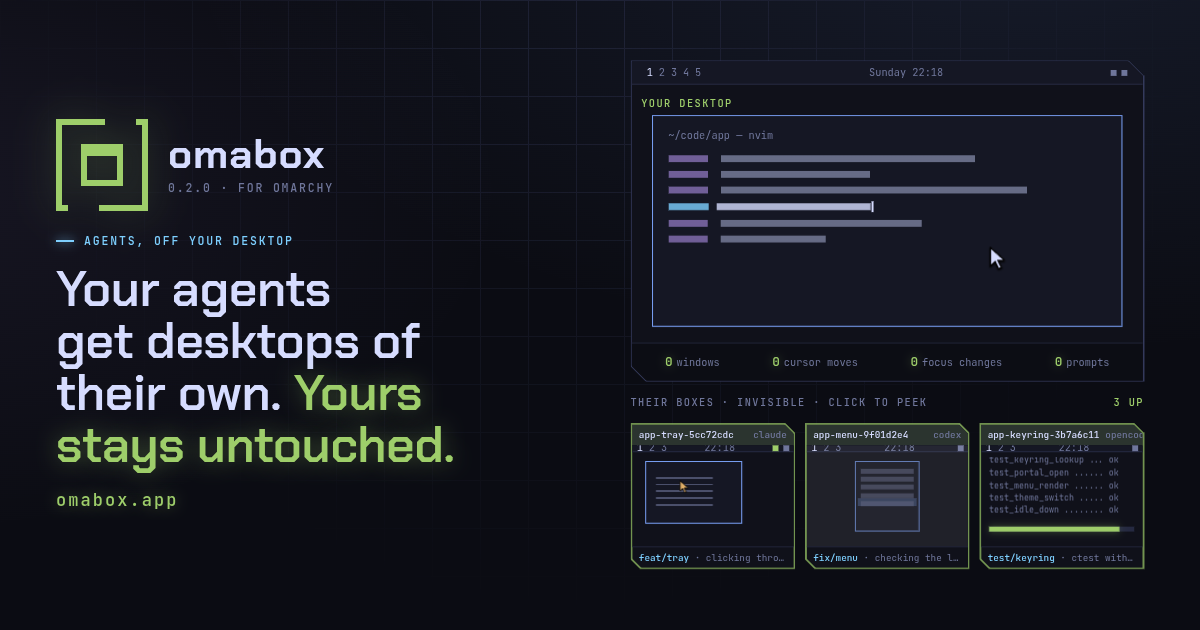
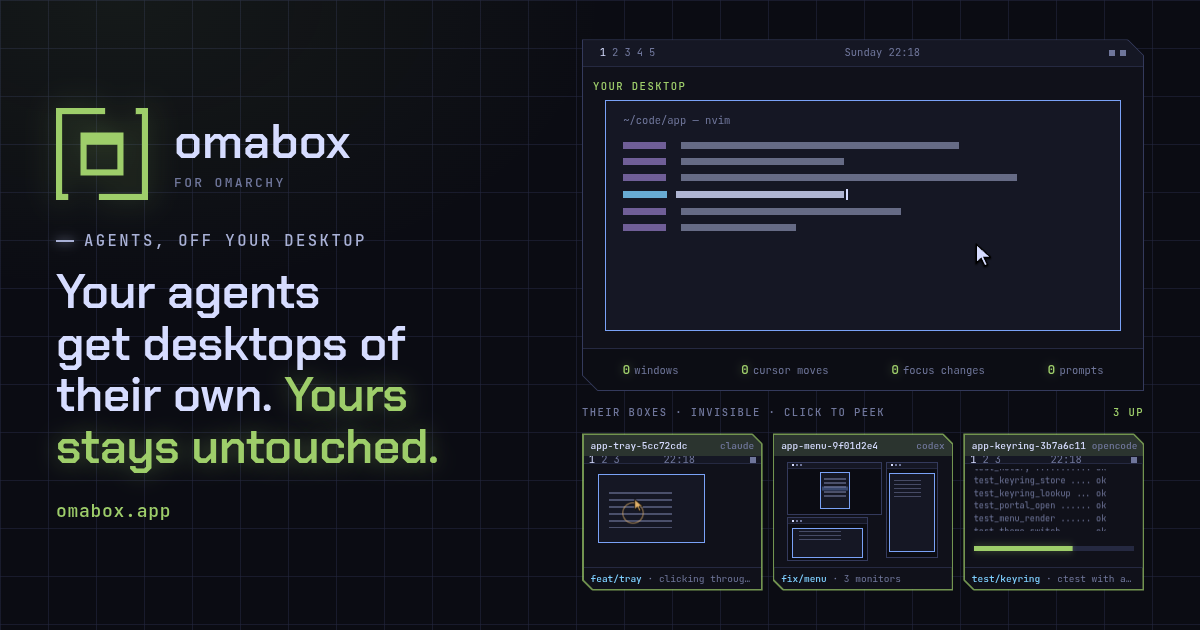
Make the link card from the home page, without a version
The card still said 0.2.0, five releases on. A card shows wherever a link
is shared, long after a release, so it carries no version now. og/make.mjs
builds it from the home page's own styles, mark, headline and live view
(the card's source was never kept); og/README.md says how it is shot in a
box. The build puts a hash of the card in its address, so X fetches the
new one instead of the card it keeps by URL.

diff --git a/site/media/README.md b/site/media/README.md
@@ -10,7 +10,7 @@ All taken with omabox, in a box (nothing from a real desktop), on 2026-09-27 unl
 | `interactive.webp` | An interactive box next to its terminal | from the omabox repo, `docs/media/interactive.png` (made by `docs/demo.sh`) |
 | `clip.mp4`, `clip-poster.webp` | The 43 s clip (0.2.0, 2026-09-29): an agent testing an app on your desktop, then in a box | from the omabox repo, `docs/media/clip-0.2.0.mp4` and `clip-0.2.0.png` (the 55 s demo it replaced, from 0.1.0, was dropped on 2026-10-01) |
 | `avatar-*.jpg` | GitHub avatars of code contributors, for the artifact (the build fetches fresh ones into `dist/media/avatars/`) | `https://avatars.githubusercontent.com/u/<id>?s=96` |
-| `og.png` | The link card (1200x630), 2026-09-28 | a card made from the page's own styles (mark, headline, the hero's live view), opened in chromium `--kiosk` in a box started with `--size 1200x630`, `omabox shot` |
+| `og.png` | The link card (1200x630), 2026-10-09, no version on it | `og/make.mjs` builds it from the home page (mark, headline, the hero's live view), shot in a box with chromium `--kiosk`: `og/README.md` |
 | `monitors.webp` | One box, three monitors (2026-10-09, omabox 0.5.2): the app menu on 1920x1080, Neovim on `~/.config/hypr/monitors.lua` on a 2560x1440 at scale 1.6 below it, `hyprctl monitors` on a portrait 1080x1920 beside them | `omabox up --theme tokyo-night --stock-bar --monitor 2560x1440,scale=1.6,below --monitor 1080x1920,1920,0`, a foot on each, `omabox shot` (4800x3168), the gaps around the monitors made transparent, `magick … -resize 1600x -quality 80` |
 | `icon.svg` | The favicon: the mark in Tokyo Night green | the page's `<symbol id="m">` path |
 

diff --git a/og/README.md b/og/README.md
@@ -1,0 +1,21 @@
+# The link card
+
+`site/media/og.png` (1200x630) is what a link to omabox.app shows on X, Discord and the rest.
+`make.mjs` builds `card.html` from the home page itself (its styles, the mark, the hero's headline
+and live view), so a change to the hero reaches the card the next time it is made. The card has no
+version: it shows wherever a link is shared, long after a release.
+
+```bash
+node og/make.mjs                                   # og/card.html (git-ignored)
+omabox up og-card --size 1200x630                  # from this repo, so it is mounted
+omabox -b og-card run -d --wait -- chromium --kiosk --no-first-run --no-default-browser-check \
+  --user-data-dir=/tmp/ogc --hide-scrollbars "file://$PWD/og/card.html"
+omabox -b og-card pointer -- move 1199 629         # the box's own pointer, out of the picture
+omabox -b og-card shot --burst 14 --every 500ms    # the live view moves: pick a frame
+cp /tmp/omabox-og-card-burst-…/frame-NNN.png site/media/og.png
+omabox down og-card
+```
+
+Pick a frame where the typed line is long, the first box shows its window and the third its tests.
+The build puts a hash of the card in its address (`og.png?v=…`), so X fetches a new card instead of
+the one it keeps for days.
